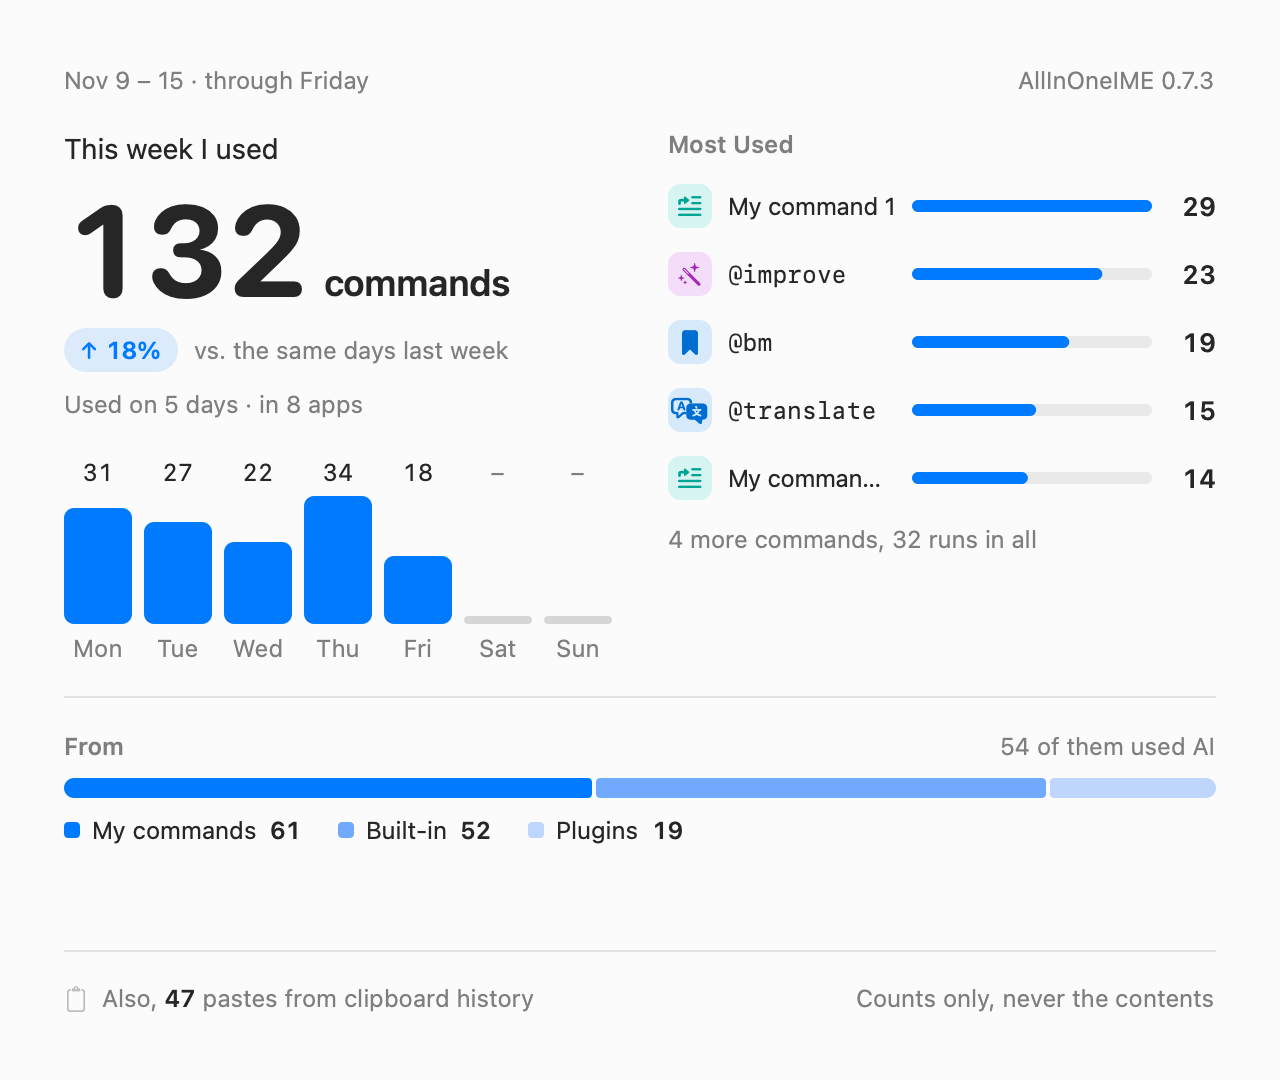
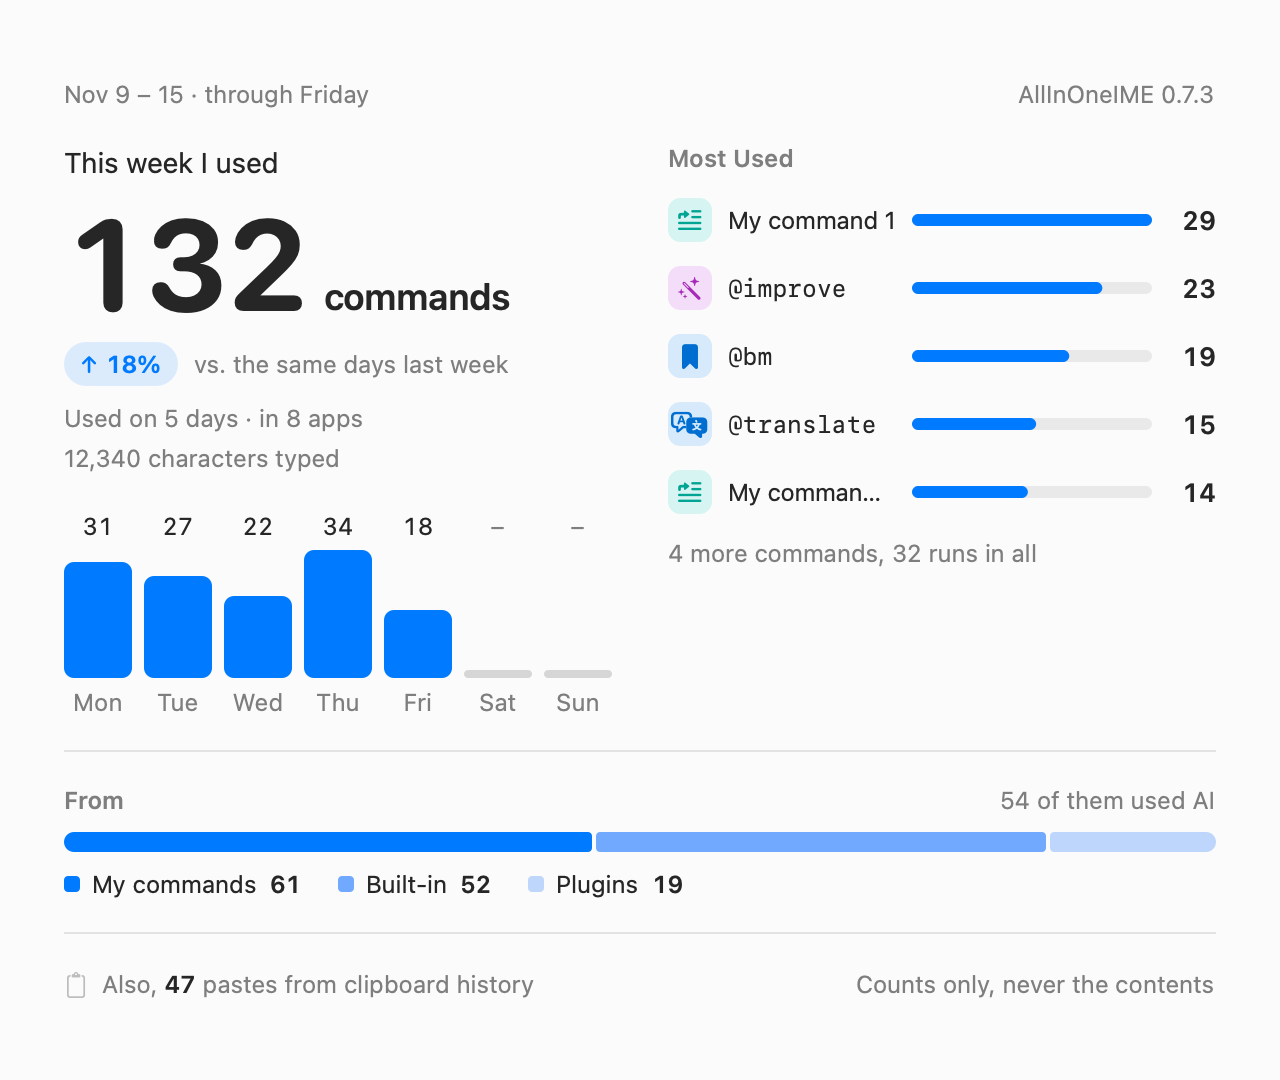
README, CHANGELOG 0.7.4, user guide: characters typed this week
README (both): the stats section says what counts as a character typed
(and what doesn't) and that it is kept as one number a day; Privacy lists
it as a number only, never the characters. The pictures (docs/week-stats.png,
docs/en/week-stats.png) are --week-stats-images' again: the new line, no
empty band. CHANGELOG (both), 0.7.4: the characters typed and the
picture's layout. User guide: the stats section names them (996
characters, under the 1,000 a section may have).

Claude-Session: https://claude.ai/code/session_01AmUXt8B9tuyDg1tg5X2vTb

diff --git a/README.md b/README.md
@@ -783,7 +783,7 @@ the input method starts, every 30 minutes (after a pause in typing) and on Sync 
 
 ## This week's stats (new)
 
-<img src="docs/en/week-stats.png" width="520" alt="This week's stats as a picture: 132 commands, 18% more than the same days last week, bars Monday to Sunday, the commands run most, where they came from and the clipboard history pastes">
+<img src="docs/en/week-stats.png" width="520" alt="This week's stats as a picture: 132 commands, 18% more than the same days last week, 12,340 characters typed, bars Monday to Sunday, the commands run most, where they came from and the clipboard history pastes">
 
 How much you use AllInOneIME, week by week, and a picture of it to share. Settings → This Week (the first page in the
 sidebar) shows the calendar week, Monday to Sunday in your time zone:
@@ -791,6 +791,11 @@ sidebar) shows the calendar week, Monday to Sunday in your time zone:
 - How many commands you ran, and how that compares with last week up to the same weekday ("↑18% vs. the same days last
   week"; nothing when last week had none on those days; the first week says it's compared from next week on and which
   day counting started). How many days you used it, and in how many apps.
+- How many characters you typed through AllInOneIME, under that ("12,340 characters typed"; not shown while there are
+  none): each Chinese character picked, each letter, digit and punctuation mark typed through it, never spaces or line
+  breaks. Not what commands, AI answers, snippets, autocomplete or clipboard history put in (only what you typed
+  yourself), nothing while secure input is on (password fields), nothing where the input method lets every key
+  through (without a language pack).
 - A bar for each day, today named; days still to come and days without a command as a short gray bar.
 - The 5 commands run most, each with its own icon and color as the command list shows it, then "4 more commands, 32
   runs in all" (or, with few, where to find every command: type @ at the start of a text field).
@@ -805,8 +810,9 @@ page keeps their names); it's remembered by the page, not a setting in config.js
 command it ran. `@stats` shows the same in the @ list, and the menu bar panel has the week on top.
 
 What is counted, on this Mac only: each command run (its name, where it comes from, whether it used AI), per day; the
-apps it ran in, as salted hashes of their bundle IDs (only how many is shown); clipboard history pastes. Never what you
-typed, a command's text, what was pasted, or a time finer than the day. See [Privacy](#privacy).
+apps it ran in, as salted hashes of their bundle IDs (only how many is shown); clipboard history pastes; the characters
+you typed, as one number a day (counted as they go in, in memory). Never what you typed, a command's text, what was
+pasted, or a time finer than the day. See [Privacy](#privacy).
 
 ## Menu bar panel
 
@@ -1445,7 +1451,7 @@ All settings are stored in `~/.config/allinoneime/config.json`; after a change, 
 - In password fields macOS switches to its own keyboard (U.S. or ABC) and back when you leave them. Whenever the app you type in holds secure input, AllInOneIME doesn't compose text: keys go in as typed. And while the system is in secure input (password fields, Terminal's Secure Keyboard Entry, etc.), nothing is sent to the AI.
 - `@note` and `@reminder` don't go to the AI: AllInOneIME hands the text only to Notes and Reminders on this Mac, and reads the reminder's time on the Mac too (whether those apps sync it to your other devices depends on their accounts, such as iCloud). So they work during secure input as well. `@note` to a folder writes a file on this Mac (it syncs if the folder does, as an iCloud Drive or Obsidian Sync folder would). `@note` to Notion sends the note to Notion (api.notion.com, with your integration's token, kept in the keychain), and only then: not during secure input.
 - `@reportissue` (and "Report an Issue…") posts nothing itself: it opens GitHub's new-issue page in your browser, prefilled with the title you typed and the versions, languages, provider kind and counts listed above (`@reportissue` shows them in the candidate panel first; the menu item and Settings open the page directly). Opening the page gives GitHub that prefilled text in its address; the issue is only posted when you click Submit there.
-- This week's stats (Settings → This Week, `@stats`, the menu bar panel's row) count each command run (its name, whether it is your own, built-in or a plugin's, whether it used AI), the apps they ran in as salted hashes of their bundle IDs (the salt is random, kept with the counts; only how many apps is shown) and the clipboard history pastes, per day, for the last 8 calendar weeks, in `~/Library/Application Support/AllInOneIME/usage.json` (readable only by your user account), not in config.json. Never what you typed, a command's text or what was pasted, never a time finer than the day. They stay on this Mac: never synced (not with iCloud either), never sent. The picture goes only where you copy or save it. Settings → Privacy → Learned… lists them; Forget there, or Forget All, deletes them.
+- This week's stats (Settings → This Week, `@stats`, the menu bar panel's row) count each command run (its name, whether it is your own, built-in or a plugin's, whether it used AI), the apps they ran in as salted hashes of their bundle IDs (the salt is random, kept with the counts; only how many apps is shown), the clipboard history pastes and how many characters you typed through the input method (a number only, never the characters themselves, never in password fields), per day, for the last 8 calendar weeks, in `~/Library/Application Support/AllInOneIME/usage.json` (readable only by your user account), not in config.json. Never what you typed, a command's text or what was pasted, never a time finer than the day. They stay on this Mac: never synced (not with iCloud either), never sent. The picture goes only where you copy or save it. Settings → Privacy → Learned… lists them; Forget there, or Forget All, deletes them.
 - `@open` searches only on this Mac. It remembers what you opened with it (the latest 200), in the input method's own preferences (not in config.json), to list those first.
 - For "Add App…" in Settings (General → In these apps, Privacy → Apps without AI), the input method keeps the bundle IDs of the last 12 apps you typed in, in its own preferences; nothing else about them.
 - What the input method learns on this Mac stays on this Mac, never in the config file and never synced: each app's starting input (and the switches toward one), the apps where typos couldn't be fixed and the suggestion rows you picked, in `~/Library/Application Support/AllInOneIME/learned.json` (app IDs, inputs, counts and times, and for a picked row what it matched, such as an issue number or an item of your list; never text you typed), and with them the apps where autocomplete stopped by itself and the models that refuse a temperature (kept where they were before). What 0.6.6 and earlier kept elsewhere moves in at the first launch. Settings → Privacy → Learned… lists all of it, with Forget for each and Forget All.

diff --git a/Resources/user-guide.md b/Resources/user-guide.md
@@ -118,9 +118,9 @@ Everything works the same way in every app. An app has two settings of its own (
 每个 App 里用法都一样。一个 App 只有两项自己的设置（「按 App 设置」，配置里的 `appProfiles`）：建议行在那里插入什么，或「关闭」（设置 →「通用」→「建议」→「在这些 App 里」），以及不用 AI（设置 →「隐私」→「不用 AI 的 App」）。输入法菜单里的「这个 App」对你正在打字的 App 有这两项。App 从哪个输入开始是学来的（见「输入语言」）。「以前的按 App 设置」（设置 →「通用」，有才显示）列出旧版本给 App 设的，可以「移除」。
 
 ## This week's stats (@stats) / 本周统计（@stats）
-Settings → This Week, the first page, shows this week (Monday to Sunday): commands run and how that compares with the same days last week, days and apps used, the 5 commands run most, from your own, built-in or plugins, how many used AI, and clipboard history pastes. Last Week shows the week before. Copy Image or Save as Image… makes a picture to share; "Hide my command names in the image" shows yours as "My command 1". @stats: ⏎ opens the page, ⌘C copies the picture. The menu bar panel shows the week on top. Counts only, kept 8 weeks on this Mac (usage.json), never synced or sent; Privacy → Learned… → Forget All deletes them.
+Settings → This Week, the first page, shows this week (Monday to Sunday): commands run (vs. the same days last week), days and apps used, characters typed, the 5 commands run most, from your own, built-in or plugins, how many used AI, and clipboard history pastes. Last Week: the week before. Copy Image or Save as Image… makes a picture to share; "Hide my command names in the image" shows yours as "My command 1". @stats: ⏎ opens the page, ⌘C copies the picture. The menu bar panel has it on top. Numbers only (characters typed: one number a day, never the text), kept 8 weeks on this Mac (usage.json), never synced or sent; Privacy → Learned… → Forget All deletes them.
 
-设置 →「本周」（第一页）显示这周（周一到周日）用了几次指令、比上周同期多还是少、几天和几个 App、最常用的 5 个指令、来自我的命令/内置/插件、其中几次用到 AI、从剪贴板历史粘贴几次。「上周」看上一周。「复制图片」「存为图片…」生成可以分享的图；「复制时隐藏我的命令名」把你的命令显示成「我的命令 1」。@stats：⏎ 打开这一页，⌘C 复制图片。菜单栏面板最上面也有。只记次数，在这台 Mac 上留 8 周（usage.json），不同步，不上传；「隐私」→「学到的内容…」→「全部忘掉」会删掉。
+设置 →「本周」（第一页）显示这周（周一到周日）用了几次指令、比上周同期多还是少、几天和几个 App、打了多少字、最常用的 5 个指令、来自我的命令/内置/插件、其中几次用到 AI、从剪贴板历史粘贴几次。「上周」看上一周。「复制图片」「存为图片…」生成可以分享的图；「复制时隐藏我的命令名」把你的命令显示成「我的命令 1」。@stats：⏎ 打开这一页，⌘C 复制图片。菜单栏面板最上面也有。只记数字（打的字每天只记一个数，不记内容），在这台 Mac 上留 8 周（usage.json），不同步，不上传；「隐私」→「学到的内容…」→「全部忘掉」会删掉。
 
 ## Menu bar, interface language and iCloud sync / 菜单栏、界面语言和 iCloud 同步
 Settings → General: Show in Menu Bar: the icon whose panel lists your notes, reminders, Claude tasks and the Autocomplete switch. Interface language: Follow the system, or a language. Sync through iCloud (off by default): your settings, custom commands and learned words, the same on all your Macs, through your own iCloud Drive only; hidden words and recent questions only if you turn them on; Sync Now is in its ⋯ menu. Settings → Advanced: Type results out, Candidate layout, Use the selected text, Config file and Rime user folder (Open).

diff --git a/CHANGELOG.md b/CHANGELOG.md
@@ -7,6 +7,8 @@ English | [中文](CHANGELOG.zh-CN.md)
 ### Added
 
 - This week's stats: Settings → This Week, the first page in the sidebar, shows how much you used AllInOneIME this calendar week (Monday to Sunday, your time zone): how many commands ran and how that compares with last week up to the same weekday (hidden when last week had none then; the first week says it's compared from next week on, and which day counting started), on how many days and in how many apps, a bar for each day, the 5 commands run most with their own icons and the rest in one line, where they came from (your own, built-in, plugins and script extensions) with how many used AI, and the clipboard history pastes. Last Week shows the week before. Copy Image puts the card on the clipboard as a PNG (640 × 540 points at 2×, light or dark as the Mac is, "This week I used"), Save as Image… saves it; "Hide my command names in the image" shows your own commands there as "My command 1", "My command 2" … (remembered by the page, not in config.json). Once a command is counted, the menu bar panel shows "132 commands this week ↑18% ›" on top (a click opens the page), and the new built-in `@stats` shows the same in the @ list, with where the commands came from: ⏎ opens the page, ⌘C copies the picture, Esc cancels. A one @ row counts as the command it ran; `@stats` itself isn't counted. Only counts are kept, per day, for 8 weeks, in `~/Library/Application Support/AllInOneIME/usage.json` (0600): each command's name, source and AI use, the apps as salted hashes of their bundle IDs, the pastes; never what you typed or pasted, never a time finer than the day, never synced or sent. The file is written a moment after a count, never while a key is handled. Settings → Privacy → Learned… lists the stats, and Forget All deletes them.
+- This week's stats also count the characters you type through AllInOneIME: "12,340 characters typed" under the days and apps, on the page and in the picture, this week and last (not shown while there are none; not on the menu bar panel's row or `@stats`), the number grouped as the interface language writes it, in all 9 languages. Each Chinese character picked and each letter, digit and punctuation mark typed through the input method counts one; spaces and line breaks don't, nor what commands, AI answers, snippets, autocomplete (only what you typed before Tab) or clipboard history put in, nor anything during secure input (password fields) or where the input method lets every key through (no language pack). Kept as one number a day in usage.json, added up in memory as the text goes in and written as the other counts are; never which characters, which app or when. Forget All forgets it with the rest; Learned… says so.
+- The picture of the week has no empty band above the clipboard line any more: the card sits in the middle of its 640 × 540 points, the pastes right under where the commands came from.
 
 ## 0.7.3 (2026-11-10)
 

diff --git a/CHANGELOG.zh-CN.md b/CHANGELOG.zh-CN.md
@@ -7,6 +7,8 @@
 ### 新增
 
 - 本周统计：设置 →「本周」（侧边栏第一页）显示这个自然周（按你的时区，周一到周日）用了多少 AllInOneIME：执行了几次指令、比上周到同一天为止多还是少（上周那几天没有就不显示；第一周写「下周起会和上周比较」和从周几开始统计）、几天都用了、在几个 App 里、每天一根柱子、最常用的 5 个指令（带各自的图标）和其余的合计、来自我的命令/内置/插件（脚本扩展算插件）以及其中几次用到 AI、从剪贴板历史粘贴了几次。「上周」看上一周。「复制图片」把卡片作为 PNG 放到剪贴板（640 × 540 点，两倍像素，跟着 Mac 的浅色或深色，「这周我用了」），「存为图片…」存成文件；「复制时隐藏我的命令名」让你自己的命令在图里显示成「我的命令 1」「我的命令 2」…（这一页记住的选项，不在 config.json 里）。统计到第一次指令后，菜单栏面板最上面显示「本周 132 次指令 ↑18% ›」（点它打开这一页）；新的内置命令 `@stats` 在 @ 列表里显示同样的数字和来自哪里：⏎ 打开这一页，⌘C 复制图片，Esc 取消。一个 @ 执行的算作它执行的那个命令；`@stats` 本身不算。只按天记次数，保留 8 周，存在 `~/Library/Application Support/AllInOneIME/usage.json`（0600）：每个指令的名字、来源和有没有用 AI，App 存成 bundle ID 加盐后的散列，粘贴次数；从不记你打的字或粘贴的内容，不记比「哪一天」更细的时间，不同步，不上传。计数后稍等片刻才写文件，从不在处理按键时写。设置 →「隐私」→「学到的内容…」里列着它，「全部忘掉」会删掉。
+- 本周统计也记用 AllInOneIME 打了多少字：页面和图片里「几天都用了 · 在几个 App 里」下面一行「打了 12,340 个字」，本周和上周都有（一个字都没有时不显示；菜单栏面板那行和 `@stats` 里没有），数字按界面语言的写法分位，9 种语言都有。选的每个汉字、经过输入法打的每个字母、数字和标点算一个；空格和换行不算，命令、AI 的回答、片段、自动补全（只算按 Tab 之前你打的）和剪贴板历史放进去的也不算，安全输入（密码框）时、输入法让所有按键直接过去的地方（没装语言包）都不算。在 usage.json 里每天只存一个数字，打字时在内存里加上，和别的次数一样稍后再写文件；从不记是哪些字、在哪个 App、什么时候。「全部忘掉」会连它一起删掉，「学到的内容…」里也写着。
+- 统计图片里「来自」和剪贴板那行之间不再空一大块：卡片放在 640 × 540 点的正中，粘贴次数那行紧跟在「来自」下面。
 
 ## 0.7.3（2026-11-10）
 
